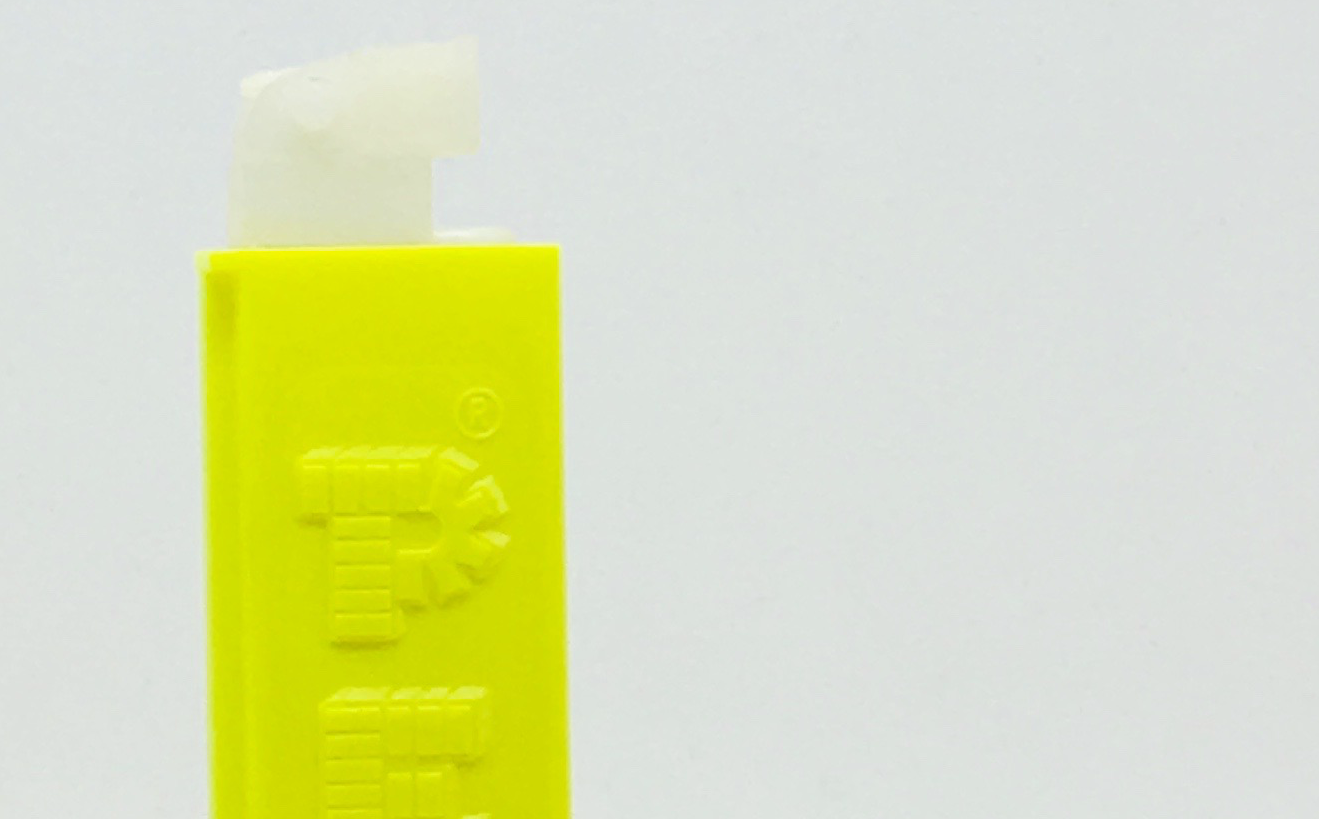
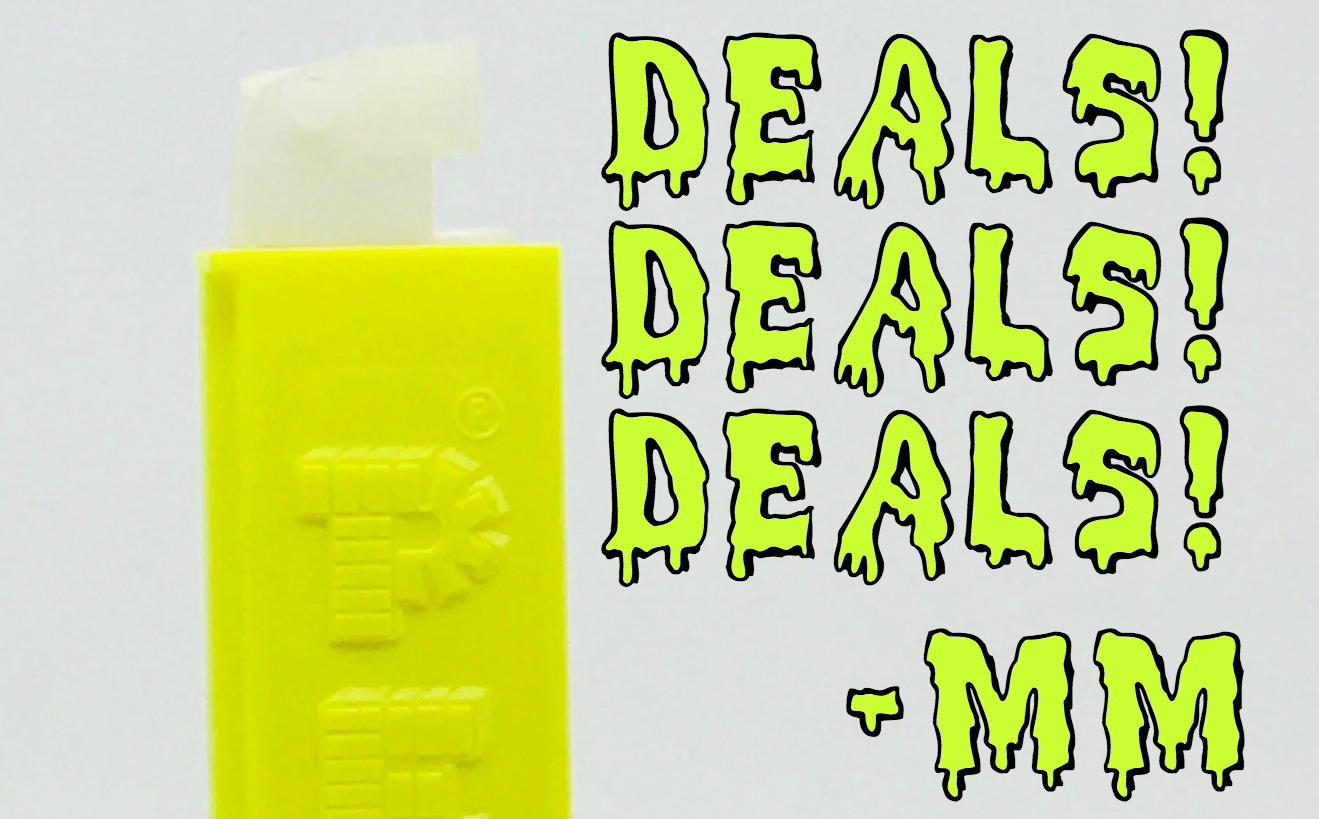
add splash image and page layout

Changed region(s): [[0.4352, 0.0305, 0.9325, 0.7326], [0.6217, 0.7631, 0.9636, 0.9768]]

diff --git a/css/styles.css b/css/styles.css
@@ -87,11 +87,26 @@ a, a:visited, a:hover {
 			HERO/JUMBOTRON
 **********************************/
 
+.splash {
+	display: grid;
+	grid-template-areas: inherit;
+	margin: 2%;
+	max-width: 10%;
+}
+
+.splash img {
+	max-width: 950%;
+	height: auto;
+}
 
 /**********************************
 			STORE FRONT
 **********************************/
 
+.storefront {
+	text-align: center;
+	font-size: 3em;
+}
 .store-container {
 	display: grid;
 	grid-template-columns: 1fr;
@@ -119,8 +134,7 @@ h2, p {
    	width: 50%;
    	border-style: solid;
 	border-color: #ccff33;
-	border-radius: 50%;
-	   
+	border-radius: 50%;  
 }
 
 #price {
@@ -154,7 +168,7 @@ h3 {
 
 .thumbnail {
 	display: inline;
-	width: 25%;
+	/*width: 25%;*/
 	margin: 10px;
 	text-align: center;
 	border-radius: 50%;

diff --git a/index.html b/index.html
@@ -14,7 +14,8 @@
 				<div class="dropdown">
 					<button onclick="myFunction()" class="dropbtn"><img src="img/menu-icon.png" alt="menu bars" class="menu-icon"></button>
 					<div id="myDropdown" class="dropdown-content">
-						<a href="#">Account</a>
+						<a href="#">Shop</a>
+						<a href="#">Locations</a>
 						<a href="#">Contact</a>
 						<a href="#">Too Soon</a>
 					</div>
@@ -24,8 +25,12 @@
 			</header>
 		
 		<!-- Jumbotron/Splash -->
-		
+		<div class="splash">
+			<img src="img/headless_big.png" alt="headless pez">
+		</div>
+
 		<!-- Store Gallery -->
+		<h1 class="storefront">STORE FRONT</h1>
 		<div class="store-container">
 			<div class="holder">
 				<img src="img/batman_portrait.png" alt="Batman" class="center">
